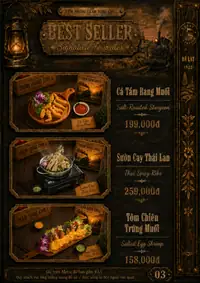
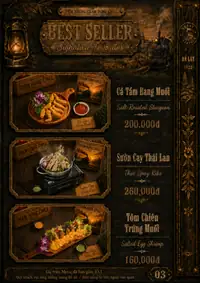
fix(menu): dua 7 mon ve dung GIA BAN THAT — anh menu va web khop lai
Sep Tuan gui bang gia ban that, doi chieu ra 7 mon menu in ghi sai. Sep da xuat
lai ba trang anh voi gia dung, nay thay anh + sua data mot luot:

  Dau Hu Non Chien Cha Bong  145K -> 99K   (lech 46K, menu in dat hon gia ban)
  Tom Chien Trung Muoi       158K -> 160K
  Ca Tam Rang Muoi           199K -> 200K
  Suon Cay Thai Lan          259K -> 260K
  Chan Ga Nuong Muoi Ot      104K -> 105K
  Suon Que Nuong             154K -> 155K
  Ba Chi Heo Han Quoc        169K -> 170K

Sau mon 1-2K chinh la mon da sua NHAM hom 04/08: luc do chot "menu in la chuan"
nen ha gia web (200->199, 260->259, 160->158, 170->169, 155->154, 105->104) cho
khop ban in. Gio co bang gia ban that thi ro la ban in sai, gia goc cua web moi
dung. Khach tra nhieu hon gia in la de khieu nai tai ban.

Thay 3 trang anh: trang 4 (best seller 03), trang 6 (bbq 05), trang 11 (lai rai
10). Da kiem lai 7/7 mon khop gia ban that o ca anh lan JSON-LD.

seo-geo-verify: 32/32 PASS · check-facts: SACH

diff --git a/menu.html b/menu.html
@@ -185,7 +185,7 @@
                     "name": "Cá Tầm Rang Muối",
                     "offers": {
                         "@type": "Offer",
-                        "price": "199000",
+                        "price": "200000",
                         "priceCurrency": "VND",
                         "availability": "https://schema.org/InStock"
                     }
@@ -195,7 +195,7 @@
                     "name": "Sườn Cay Thái Lan",
                     "offers": {
                         "@type": "Offer",
-                        "price": "259000",
+                        "price": "260000",
                         "priceCurrency": "VND",
                         "availability": "https://schema.org/InStock"
                     }
@@ -205,7 +205,7 @@
                     "name": "Tôm Chiên Trứng Muối",
                     "offers": {
                         "@type": "Offer",
-                        "price": "158000",
+                        "price": "160000",
                         "priceCurrency": "VND",
                         "availability": "https://schema.org/InStock"
                     }
@@ -241,7 +241,7 @@
                     "name": "Ba Chỉ Heo Hàn Quốc",
                     "offers": {
                         "@type": "Offer",
-                        "price": "169000",
+                        "price": "170000",
                         "priceCurrency": "VND",
                         "availability": "https://schema.org/InStock"
                     }
@@ -261,7 +261,7 @@
                     "name": "Sườn Que Nướng",
                     "offers": {
                         "@type": "Offer",
-                        "price": "154000",
+                        "price": "155000",
                         "priceCurrency": "VND",
                         "availability": "https://schema.org/InStock"
                     }
@@ -271,7 +271,7 @@
                     "name": "Chân Gà Nướng Muối Ớt",
                     "offers": {
                         "@type": "Offer",
-                        "price": "104000",
+                        "price": "105000",
                         "priceCurrency": "VND",
                         "availability": "https://schema.org/InStock"
                     }
@@ -505,7 +505,7 @@
                     "name": "Đậu Hũ Non Chiên Chà Bông",
                     "offers": {
                         "@type": "Offer",
-                        "price": "145000",
+                        "price": "99000",
                         "priceCurrency": "VND",
                         "availability": "https://schema.org/InStock"
                     }
@@ -1217,8 +1217,8 @@
                     <figcaption class="flip-page-caption">Trang 3/26 — Best Seller</figcaption>
                 </figure>
                 <figure class="flip-page" data-page="4" data-group="bestseller" data-group-label="Best Seller" data-group-i18n="flip.group.bestseller">
-                    <img src="assets/menu-pages/menu-quan-nuong-da-lat-04-best-seller-ca-tam-rang-muoi-suon-cay-thai-1000.webp?v=35b2b5be"
-                         srcset="assets/menu-pages/menu-quan-nuong-da-lat-04-best-seller-ca-tam-rang-muoi-suon-cay-thai-560.webp?v=84834c07 560w, assets/menu-pages/menu-quan-nuong-da-lat-04-best-seller-ca-tam-rang-muoi-suon-cay-thai-1000.webp?v=35b2b5be 1000w"
+                    <img src="assets/menu-pages/menu-quan-nuong-da-lat-04-best-seller-ca-tam-rang-muoi-suon-cay-thai-1000.webp?v=36e63a20"
+                         srcset="assets/menu-pages/menu-quan-nuong-da-lat-04-best-seller-ca-tam-rang-muoi-suon-cay-thai-560.webp?v=0fc077cb 560w, assets/menu-pages/menu-quan-nuong-da-lat-04-best-seller-ca-tam-rang-muoi-suon-cay-thai-1000.webp?v=36e63a20 1000w"
                          sizes="(min-width: 900px) 46vw, 92vw"
                          width="1055" height="1491"
                          alt="Best seller quán nướng Đà Lạt: cá tầm rang muối, sườn cay Thái Lan, tôm chiên trứng muối"
@@ -1235,8 +1235,8 @@
                     <figcaption class="flip-page-caption">Trang 5/26 — BBQ Nướng Tại Bàn</figcaption>
                 </figure>
                 <figure class="flip-page" data-page="6" data-group="nuong" data-group-label="BBQ Nướng Tại Bàn" data-group-i18n="flip.group.bbq">
-                    <img src="assets/menu-pages/menu-quan-nuong-da-lat-06-bbq-ba-chi-heo-han-quoc-suon-que-chan-ga-1000.webp?v=ce114447"
-                         srcset="assets/menu-pages/menu-quan-nuong-da-lat-06-bbq-ba-chi-heo-han-quoc-suon-que-chan-ga-560.webp?v=00bd7e83 560w, assets/menu-pages/menu-quan-nuong-da-lat-06-bbq-ba-chi-heo-han-quoc-suon-que-chan-ga-1000.webp?v=ce114447 1000w"
+                    <img src="assets/menu-pages/menu-quan-nuong-da-lat-06-bbq-ba-chi-heo-han-quoc-suon-que-chan-ga-1000.webp?v=2ac0faaa"
+                         srcset="assets/menu-pages/menu-quan-nuong-da-lat-06-bbq-ba-chi-heo-han-quoc-suon-que-chan-ga-560.webp?v=3fcb7b1d 560w, assets/menu-pages/menu-quan-nuong-da-lat-06-bbq-ba-chi-heo-han-quoc-suon-que-chan-ga-1000.webp?v=2ac0faaa 1000w"
                          sizes="(min-width: 900px) 46vw, 92vw"
                          width="1055" height="1491"
                          alt="Menu nướng tại bàn: ba chỉ heo Hàn Quốc, sườn que nướng, chân gà nướng muối ớt"
@@ -1280,8 +1280,8 @@
                     <figcaption class="flip-page-caption">Trang 10/26 — Lẩu</figcaption>
                 </figure>
                 <figure class="flip-page" data-page="11" data-group="laurai" data-group-label="Món Lai Rai" data-group-i18n="flip.group.snacks">
-                    <img src="assets/menu-pages/menu-quan-nuong-da-lat-11-mon-lai-rai-dau-hu-non-bo-luc-lac-1000.webp?v=63496e09"
-                         srcset="assets/menu-pages/menu-quan-nuong-da-lat-11-mon-lai-rai-dau-hu-non-bo-luc-lac-560.webp?v=3c97deab 560w, assets/menu-pages/menu-quan-nuong-da-lat-11-mon-lai-rai-dau-hu-non-bo-luc-lac-1000.webp?v=63496e09 1000w"
+                    <img src="assets/menu-pages/menu-quan-nuong-da-lat-11-mon-lai-rai-dau-hu-non-bo-luc-lac-1000.webp?v=378ac085"
+                         srcset="assets/menu-pages/menu-quan-nuong-da-lat-11-mon-lai-rai-dau-hu-non-bo-luc-lac-560.webp?v=eb2302a9 560w, assets/menu-pages/menu-quan-nuong-da-lat-11-mon-lai-rai-dau-hu-non-bo-luc-lac-1000.webp?v=378ac085 1000w"
                          sizes="(min-width: 900px) 46vw, 92vw"
                          width="1055" height="1491"
                          alt="Món lai rai nhâm nhi: đậu hũ non chiên chà bông, xúc xích Đức nướng, bò lúc lắc"
@@ -1451,18 +1451,18 @@
 <li>Vếu Heo Ướp Chao — 145.000đ</li>
 <li>Ốc Nhồi Thịt — 165.000đ</li>
 <li>Cá Tầm Lúc Lắc — 165.000đ</li>
-<li>Cá Tầm Rang Muối — 199.000đ</li>
-<li>Sườn Cay Thái Lan — 259.000đ</li>
-<li>Tôm Chiên Trứng Muối — 158.000đ</li>
+<li>Cá Tầm Rang Muối — 200.000đ</li>
+<li>Sườn Cay Thái Lan — 260.000đ</li>
+<li>Tôm Chiên Trứng Muối — 160.000đ</li>
 </ul>
 <h3>BBQ Nướng Tại Bàn</h3>
 <ul>
 <li>Bò Nướng Cục — 159.000đ</li>
 <li>Bò Nướng Xiêng — 162.000đ</li>
-<li>Ba Chỉ Heo Hàn Quốc — 169.000đ</li>
+<li>Ba Chỉ Heo Hàn Quốc — 170.000đ</li>
 <li>Ba Chỉ Heo Nướng Ngũ Vị — 132.000đ</li>
-<li>Sườn Que Nướng — 154.000đ</li>
-<li>Chân Gà Nướng Muối Ớt — 104.000đ</li>
+<li>Sườn Que Nướng — 155.000đ</li>
+<li>Chân Gà Nướng Muối Ớt — 105.000đ</li>
 <li>Cánh Gà Nướng Muối Ớt — 130.000đ</li>
 <li>Ếch Nướng Muối Ớt — 145.000đ</li>
 <li>Tôm Nướng Muối Ớt — 150.000đ</li>
@@ -1495,7 +1495,7 @@
 </ul>
 <h3>Món Lai Rai</h3>
 <ul>
-<li>Đậu Hũ Non Chiên Chà Bông — 145.000đ</li>
+<li>Đậu Hũ Non Chiên Chà Bông — 99.000đ</li>
 <li>Xúc Xích Đức Nướng — 20.000đ</li>
 <li>Bò Lúc Lắc — 160.000đ</li>
 <li>Sụn Gà Chiên Mắm — 145.000đ</li>

diff --git a/data/menu-data.js b/data/menu-data.js
@@ -38,18 +38,18 @@ const MENU_ITEMS = {
         { name: 'Vếu Heo Ướp Chao', price: '145K' },
         { name: 'Ốc Nhồi Thịt', price: '165K' },
         { name: 'Cá Tầm Lúc Lắc', price: '165K' },
-        { name: 'Cá Tầm Rang Muối', price: '199K' },
-        { name: 'Sườn Cay Thái Lan', price: '259K', badge: 'Hot' },
-        { name: 'Tôm Chiên Trứng Muối', price: '158K' },
+        { name: 'Cá Tầm Rang Muối', price: '200K' },
+        { name: 'Sườn Cay Thái Lan', price: '260K', badge: 'Hot' },
+        { name: 'Tôm Chiên Trứng Muối', price: '160K' },
     ],
 
     nuong: [
         { name: 'Bò Nướng Cục', price: '159K' },
         { name: 'Bò Nướng Xiêng', price: '162K' },
-        { name: 'Ba Chỉ Heo Hàn Quốc', price: '169K' },
+        { name: 'Ba Chỉ Heo Hàn Quốc', price: '170K' },
         { name: 'Ba Chỉ Heo Nướng Ngũ Vị', price: '132K' },
-        { name: 'Sườn Que Nướng', price: '154K' },
-        { name: 'Chân Gà Nướng Muối Ớt', price: '104K' },
+        { name: 'Sườn Que Nướng', price: '155K' },
+        { name: 'Chân Gà Nướng Muối Ớt', price: '105K' },
         { name: 'Cánh Gà Nướng Muối Ớt', price: '130K' },
         { name: 'Ếch Nướng Muối Ớt', price: '145K' },
         { name: 'Tôm Nướng Muối Ớt', price: '150K' },
@@ -82,7 +82,7 @@ const MENU_ITEMS = {
     ],
 
     laurai: [
-        { name: 'Đậu Hũ Non Chiên Chà Bông', price: '145K' },
+        { name: 'Đậu Hũ Non Chiên Chà Bông', price: '99K' },
         { name: 'Xúc Xích Đức Nướng', price: '20K' },
         { name: 'Bò Lúc Lắc', price: '160K' },
         { name: 'Sụn Gà Chiên Mắm', price: '145K' },
